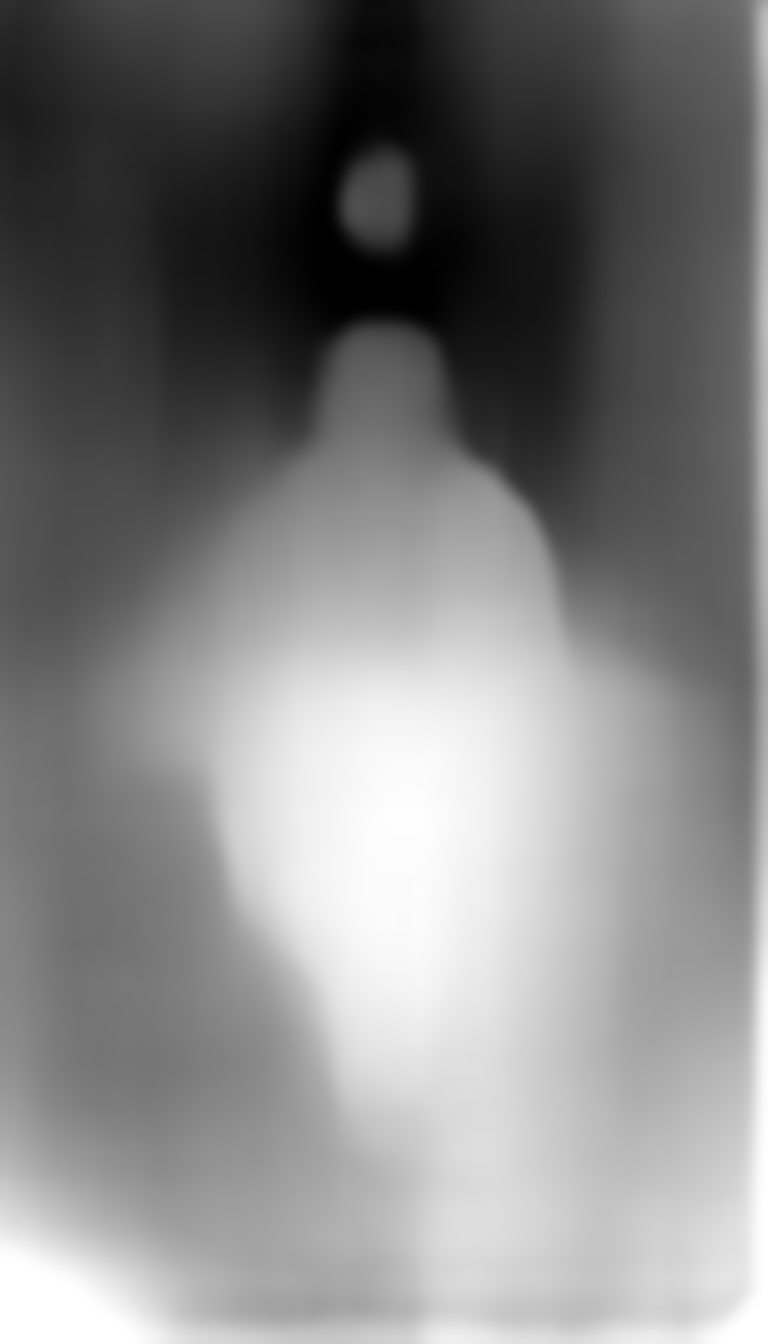
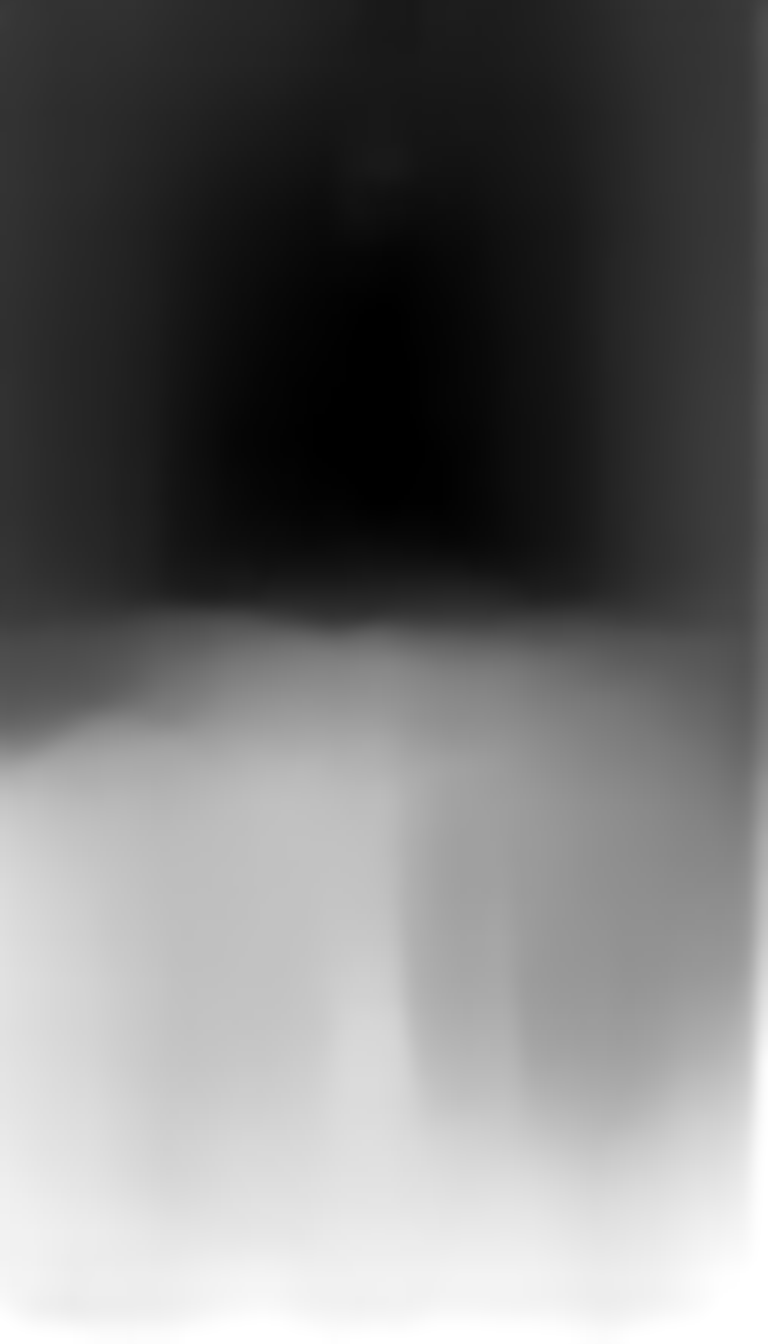
SolitudeLyrics: man as his own layer, calmer camera
The depth warp bent the man's body (his head tore off on shot 1).
Now each shot has a clean plate (Gemini, man removed) and a person
cutout (rembg u2net_human_seg). The shader warps only the plate and
draws the man as a flat card at his depth, which is also the focus
plane, so he stays sharp and steady while the world moves around him.

Camera moves, zoom-through cuts and handheld drift are toned down.

Claude-Session: https://claude.ai/code/session_01KgYHp3VtYHJ6xxZe5Txcze

diff --git a/examples/src/lyrics/SolitudeLyrics.tsx b/examples/src/lyrics/SolitudeLyrics.tsx
@@ -14,6 +14,8 @@ import {
   useVideoConfig,
 } from "remotion";
 import { Cam, DepthShot } from "./DepthShot";
+// depth of the man in each shot, written by scripts/gen-depth.py
+import layers from "../../public/lyrics/layers.json";
 
 // Cairo (OFL) bundled locally so renders work offline
 const cairo = "Cairo";
@@ -81,7 +83,6 @@ const lineEndS = (i: number) => (i + 1 < LYRICS.length ? lineStartS(i + 1) : CLI
 type Shot = {
   from: Cam;
   to: Cam;
-  focus: number;
   dof: number;
   fog: number;
   rain: number;
@@ -90,21 +91,21 @@ type Shot = {
 };
 const SHOTS: Shot[] = [
   // 1 walking away: slow push down the alley
-  { from: { x: -0.2, y: 0, zoom: 1, dolly: 0 }, to: { x: 0.3, y: -0.1, zoom: 1.06, dolly: 0.55 }, focus: 0.55, dof: 0.5, fog: 0.4, rain: 0.7, exposure: [0.9, 1] },
+  { from: { x: -0.15, y: 0, zoom: 1, dolly: 0 }, to: { x: 0.15, y: -0.05, zoom: 1.05, dolly: 0.35 }, dof: 0.5, fog: 0.4, rain: 0.7, exposure: [0.9, 1] },
   // 2 blocked road: lateral orbit past the rubble
-  { from: { x: -1, y: 0.1, zoom: 1.04, dolly: 0.2 }, to: { x: 1, y: -0.1, zoom: 1.08, dolly: 0.3 }, focus: 0.75, dof: 0.7, fog: 0.4, rain: 0.6, exposure: [1, 1] },
+  { from: { x: -0.5, y: 0.05, zoom: 1.04, dolly: 0.15 }, to: { x: 0.5, y: -0.05, zoom: 1.06, dolly: 0.25 }, dof: 0.7, fog: 0.4, rain: 0.6, exposure: [1, 1] },
   // 3 pitch dark: dolly-zoom (vertigo), light drains away
-  { from: { x: 0, y: 0, zoom: 1, dolly: 0.4 }, to: { x: 0, y: 0.1, zoom: 1.25, dolly: -0.3 }, focus: 0.5, dof: 0.4, fog: 0.55, rain: 0.4, exposure: [1, 0.6] },
+  { from: { x: 0, y: 0, zoom: 1, dolly: 0.3 }, to: { x: 0, y: 0.05, zoom: 1.15, dolly: -0.2 }, dof: 0.4, fog: 0.55, rain: 0.4, exposure: [1, 0.6] },
   // 4 the gate refuses: crane up the bars, impact on "رافضة"
-  { from: { x: 0.2, y: 1, zoom: 1.02, dolly: 0 }, to: { x: -0.2, y: -0.7, zoom: 1.1, dolly: 0.45 }, focus: 0.7, dof: 0.5, fog: 0.35, rain: 0.7, exposure: [0.95, 0.9], shake: 1 },
+  { from: { x: 0.1, y: 0.5, zoom: 1.02, dolly: 0 }, to: { x: -0.1, y: -0.4, zoom: 1.07, dolly: 0.3 }, dof: 0.5, fog: 0.35, rain: 0.7, exposure: [0.95, 0.9], shake: 1 },
   // 5 crying close-up: slow drift, heavy bokeh, heavy rain
-  { from: { x: 0.5, y: 0, zoom: 1, dolly: 0 }, to: { x: -0.3, y: 0.1, zoom: 1.12, dolly: 0.35 }, focus: 0.9, dof: 1.2, fog: 0.2, rain: 1, exposure: [0.95, 1] },
+  { from: { x: 0.3, y: 0, zoom: 1, dolly: 0 }, to: { x: -0.2, y: 0.05, zoom: 1.08, dolly: 0.25 }, dof: 1.2, fog: 0.2, rain: 1, exposure: [0.95, 1] },
   // 6 talking to himself: orbit around the steps
-  { from: { x: 0.9, y: -0.2, zoom: 1.05, dolly: 0.25 }, to: { x: -0.9, y: 0.1, zoom: 1.05, dolly: 0.35 }, focus: 0.65, dof: 0.6, fog: 0.35, rain: 0.8, exposure: [0.95, 0.95] },
+  { from: { x: 0.5, y: -0.1, zoom: 1.04, dolly: 0.2 }, to: { x: -0.5, y: 0.05, zoom: 1.04, dolly: 0.25 }, dof: 0.6, fog: 0.35, rain: 0.8, exposure: [0.95, 0.95] },
   // 7 his reflection: tilt down into the puddle
-  { from: { x: 0, y: -0.8, zoom: 1.02, dolly: 0.1 }, to: { x: 0.15, y: 0.8, zoom: 1.12, dolly: 0.5 }, focus: 0.8, dof: 0.8, fog: 0.3, rain: 0.7, exposure: [1, 0.95] },
+  { from: { x: 0, y: -0.5, zoom: 1.02, dolly: 0.1 }, to: { x: 0.1, y: 0.5, zoom: 1.08, dolly: 0.3 }, dof: 0.8, fog: 0.3, rain: 0.7, exposure: [1, 0.95] },
   // 8 alone in the street: crane pull-back, fade to night
-  { from: { x: 0, y: -0.4, zoom: 1.3, dolly: 0.6 }, to: { x: 0, y: 0.4, zoom: 1, dolly: -0.25 }, focus: 0.6, dof: 0.5, fog: 0.5, rain: 0.8, exposure: [1, 0.75] },
+  { from: { x: 0, y: -0.25, zoom: 1.18, dolly: 0.4 }, to: { x: 0, y: 0.25, zoom: 1, dolly: -0.15 }, dof: 0.5, fog: 0.5, rain: 0.8, exposure: [1, 0.75] },
 ];
 
 export const SOL_TOTAL_S = CLIP_END - CLIP_START;
@@ -136,33 +137,37 @@ const ShotLayer: React.FC<{ index: number; dur: number; cutF: number; last: bool
   const frame = useCurrentFrame();
   const { fps } = useVideoConfig();
   const shot = SHOTS[index];
+  // the man is the focus plane: he stays sharp and steady, the world moves around him
+  const fgDepth = layers[`shot-${pad(index)}` as keyof typeof layers].fg;
   const p = interpolate(frame, [0, dur], [0, 1], { ...clamp, easing: t.ease.inOut });
   const cam = mixCam(shot.from, shot.to, p);
 
   // zoom-through: punch into the scene at the end, settle out of a push at the start
   const outP = last ? 0 : interpolate(frame, [dur - cutF, dur], [0, 1], { ...clamp, easing: t.ease.in });
   const inP = index === 0 ? 1 : interpolate(frame, [0, cutF * 1.6], [0, 1], { ...clamp, easing: t.ease.out });
-  cam.dolly += outP * 0.5 - (1 - inP) * 0.3;
-  cam.zoom *= 1 + outP * 0.35 + (1 - inP) * 0.14;
+  cam.dolly += outP * 0.2 - (1 - inP) * 0.12;
+  cam.zoom *= 1 + outP * 0.12 + (1 - inP) * 0.06;
 
   // handheld drift + impact shake on the hero word
   const s = frame / fps;
   const shake = shot.shake && frame >= hitAt ? Math.exp(-(frame - hitAt) / 5) * shot.shake : 0;
-  cam.x += noise(s * 0.6, index) * 0.08 + Math.sin(frame * 2.1) * shake * 0.35;
-  cam.y += noise(s * 0.5, index + 9) * 0.06 + Math.cos(frame * 2.7) * shake * 0.3;
+  cam.x += noise(s * 0.6, index) * 0.04 + Math.sin(frame * 2.1) * shake * 0.2;
+  cam.y += noise(s * 0.5, index + 9) * 0.03 + Math.cos(frame * 2.7) * shake * 0.18;
 
   const exposure = interpolate(p, [0, 1], shot.exposure) * (1 + shake * 0.25);
   const opacity = index === 0 ? 1 : interpolate(frame, [0, cutF], [0, 1], { ...clamp, easing: t.ease.out });
-  const blur = (1 - inP) * 14 + outP * 10;
+  const blur = (1 - inP) * 6 + outP * 4;
 
   return (
     <AbsoluteFill style={{ opacity, filter: blur > 0.3 ? `blur(${blur}px)` : undefined }}>
       <DepthShot
-        src={staticFile(`lyrics/shot-${pad(index)}.png`)}
+        src={staticFile(`lyrics/shot-${pad(index)}-plate.png`)}
         depth={staticFile(`lyrics/shot-${pad(index)}-depth.png`)}
+        fg={staticFile(`lyrics/shot-${pad(index)}-fg.png`)}
+        fgDepth={fgDepth}
         cam={cam}
         time={s}
-        focus={shot.focus}
+        focus={fgDepth}
         dof={shot.dof}
         fog={shot.fog}
         rain={shot.rain}

diff --git a/examples/src/lyrics/DepthShot.tsx b/examples/src/lyrics/DepthShot.tsx
@@ -5,6 +5,10 @@ import { cancelRender, continueRender, delayRender } from "remotion";
 // pixel (parallax occlusion), so near objects slide and grow more than far
 // ones. Depth also drives fog, depth-of-field and rain that falls BETWEEN
 // the layers (hidden behind near objects).
+//
+// With fg (an RGBA cutout of the subject) the subject is not warped: src is the
+// clean plate, and the cutout is drawn as a flat card at fgDepth on top of it,
+// so the camera moves around him without bending his body.
 
 export type Cam = {
   x: number; // lateral camera offset (−1..1)
@@ -16,6 +20,8 @@ export type Cam = {
 export type DepthShotProps = {
   src: string;
   depth: string;
+  fg?: string; // RGBA cutout of the subject
+  fgDepth?: number; // depth of the subject's card (0 far … 1 near)
   cam: Cam;
   time: number; // seconds, for rain + flicker
   focus?: number; // depth that stays pinned (0 far … 1 near)
@@ -37,6 +43,8 @@ precision highp float;
 varying vec2 vUv;
 uniform sampler2D uImg;
 uniform sampler2D uDepth;
+uniform sampler2D uFg;
+uniform float uHasFg, uFgDepth;
 uniform vec2 uCover;   // uv scale for cover fit
 uniform vec2 uCam;
 uniform float uZoom, uDolly, uFocus, uFog, uDof, uRain, uTime, uExposure;
@@ -89,6 +97,13 @@ void main() {
     col = acc / 9.0;
   }
 
+  // subject card: sharp, unwarped, composited at its own depth
+  if (uHasFg > 0.5) {
+    vec4 fg = texture2D(uFg, project(vUv, uFgDepth));
+    col = mix(col, fg.rgb, fg.a);
+    hitD = mix(hitD, uFgDepth, fg.a);
+  }
+
   // atmospheric fog thickens with distance
   col = mix(col, uFogColor, (1.0 - hitD) * (1.0 - hitD) * uFog);
 
@@ -139,6 +154,8 @@ const texture = (gl: WebGLRenderingContext, unit: number, img: HTMLImageElement)
 export const DepthShot: React.FC<DepthShotProps> = ({
   src,
   depth,
+  fg,
+  fgDepth = 0.8,
   cam,
   time,
   focus = 0.5,
@@ -160,8 +177,8 @@ export const DepthShot: React.FC<DepthShotProps> = ({
       cancelRender(new Error("WebGL unavailable — render with --gl=angle or --gl=swangle"));
       return;
     }
-    Promise.all([loadImage(src), loadImage(depth)])
-      .then(([img, dep]) => {
+    Promise.all([loadImage(src), loadImage(depth), fg ? loadImage(fg) : null])
+      .then(([img, dep, fgImg]) => {
         const prog = gl.createProgram()!;
         gl.attachShader(prog, compile(gl, gl.VERTEX_SHADER, VERT));
         gl.attachShader(prog, compile(gl, gl.FRAGMENT_SHADER, FRAG));
@@ -175,12 +192,17 @@ export const DepthShot: React.FC<DepthShotProps> = ({
         gl.vertexAttribPointer(loc, 2, gl.FLOAT, false, 0, 0);
         texture(gl, 0, img);
         texture(gl, 1, dep);
+        // straight (not premultiplied) alpha for the cutout
+        gl.pixelStorei(gl.UNPACK_PREMULTIPLY_ALPHA_WEBGL, false);
+        texture(gl, 2, fgImg ?? dep);
         gl.uniform1i(gl.getUniformLocation(prog, "uImg"), 0);
         gl.uniform1i(gl.getUniformLocation(prog, "uDepth"), 1);
+        gl.uniform1i(gl.getUniformLocation(prog, "uFg"), 2);
+        gl.uniform1f(gl.getUniformLocation(prog, "uHasFg"), fgImg ? 1 : 0);
         setState({ gl, prog, imgSize: [img.naturalWidth, img.naturalHeight] });
       })
       .catch((err) => cancelRender(err));
-  }, [src, depth]);
+  }, [src, depth, fg]);
 
   useEffect(() => {
     if (!state) return;
@@ -197,6 +219,7 @@ export const DepthShot: React.FC<DepthShotProps> = ({
     gl.uniform1f(u("uZoom"), cam.zoom);
     gl.uniform1f(u("uDolly"), cam.dolly);
     gl.uniform1f(u("uFocus"), focus);
+    gl.uniform1f(u("uFgDepth"), fgDepth);
     gl.uniform1f(u("uFog"), fog);
     gl.uniform1f(u("uDof"), dof);
     gl.uniform1f(u("uRain"), rain);
@@ -208,7 +231,7 @@ export const DepthShot: React.FC<DepthShotProps> = ({
       released.current = true;
       continueRender(handle);
     }
-  }, [state, cam.x, cam.y, cam.zoom, cam.dolly, time, focus, fog, dof, rain, exposure, width, height, handle]);
+  }, [state, cam.x, cam.y, cam.zoom, cam.dolly, time, focus, fgDepth, fog, dof, rain, exposure, width, height, handle]);
 
   return <canvas ref={canvas} width={width} height={height} style={{ position: "absolute", inset: 0 }} />;
 };

diff --git a/examples/scripts/gen-depth.py b/examples/scripts/gen-depth.py
@@ -5,11 +5,19 @@ shot-XX-depth.png next to it: grayscale, white = near, black = far.
 Foreground edges are dilated slightly so near objects cover their own edges
 when the camera moves (avoids rubber-sheet halos).
 
+When shot-XX-plate.png exists (the same still with the man removed, from
+gen-lyrics-images.mjs --plates), the depth map is made from the plate instead,
+the man is cut out with a person matting model (rembg u2net_human_seg) into
+shot-XX-fg.png (RGBA), and his depth goes into layers.json. He then moves as a flat layer at that depth, so
+the camera never warps his body.
+
 Model (66 MB, MIT): https://github.com/isl-org/MiDaS/releases/download/v2_1/model-small.onnx
 saved to examples/models/midas-small.onnx (gitignored).
 
 Usage: python3 scripts/gen-depth.py [image ...]
 """
+import json
+import re
 import sys
 from pathlib import Path
 
@@ -24,29 +32,79 @@ MEAN = np.array([0.485, 0.456, 0.406], dtype=np.float32)
 STD = np.array([0.229, 0.224, 0.225], dtype=np.float32)
 
 
-def depth_for(path: Path, session: ort.InferenceSession) -> Path:
-    img = Image.open(path).convert("RGB")
+def inverse_depth(img: Image.Image, session: ort.InferenceSession) -> np.ndarray:
     x = np.asarray(img.resize((256, 256), Image.BICUBIC), dtype=np.float32) / 255.0
     x = ((x - MEAN) / STD).transpose(2, 0, 1)[None]
-    inv = session.run(None, {session.get_inputs()[0].name: x})[0][0]  # inverse depth, near = high
-    lo, hi = np.percentile(inv, 1), np.percentile(inv, 99)
-    d = np.clip((inv - lo) / (hi - lo + 1e-6), 0, 1)
-    out = Image.fromarray((d * 255).astype(np.uint8)).resize(img.size, Image.BICUBIC)
+    return session.run(None, {session.get_inputs()[0].name: x})[0][0]  # near = high
+
+
+def save_depth(d: np.ndarray, size: tuple[int, int], dest: Path) -> None:
+    out = Image.fromarray((d * 255).astype(np.uint8)).resize(size, Image.BICUBIC)
     out = out.filter(ImageFilter.MaxFilter(9)).filter(ImageFilter.GaussianBlur(6))
-    dest = path.with_name(path.stem + "-depth.png")
     out.save(dest)
-    return dest
+
+
+def cutout(img: Image.Image, seg) -> np.ndarray:
+    """Soft alpha (0..1) of the man (and his reflection) from a person matting model."""
+    from rembg import remove
+
+    m = np.asarray(remove(img, session=seg, only_mask=True, post_process_mask=False), dtype=np.float32) / 255.0
+    return np.clip((m - 0.08) / 0.84, 0, 1)
+
+
+def process(path: Path, session: ort.InferenceSession, seg, layers: dict) -> None:
+    img = Image.open(path).convert("RGB")
+    plate_path = path.with_name(path.stem + "-plate.png")
+    if not plate_path.exists():
+        inv = inverse_depth(img, session)
+        lo, hi = np.percentile(inv, 1), np.percentile(inv, 99)
+        save_depth(np.clip((inv - lo) / (hi - lo + 1e-6), 0, 1), img.size, path.with_name(path.stem + "-depth.png"))
+        print("depth:", path.stem)
+        return
+
+    plate = Image.open(plate_path).convert("RGB").resize(img.size, Image.BICUBIC)
+    inv_bg = inverse_depth(plate, session)
+    inv_all = inverse_depth(img, session)
+    lo, hi = np.percentile(inv_bg, 1), np.percentile(inv_bg, 99)
+    norm = lambda v: np.clip((v - lo) / (hi - lo + 1e-6), 0, 1)
+    save_depth(norm(inv_bg), img.size, path.with_name(path.stem + "-depth.png"))
+
+    alpha = cutout(img, seg)
+    rgba = np.dstack([np.asarray(img), (alpha * 255).astype(np.uint8)])
+    Image.fromarray(rgba, "RGBA").save(path.with_name(path.stem + "-fg.png"))
+
+    # his depth: where he stands, i.e. the plate's depth just under his lowest pixels
+    small = np.asarray(Image.fromarray((alpha * 255).astype(np.uint8)).resize((256, 256))) > 127
+    rows = np.flatnonzero(small.any(axis=1))
+    d_bg = norm(inv_bg)
+    if rows.size:
+        foot = rows[-1]
+        cols = np.flatnonzero(small[foot])
+        # cut off by the frame bottom: he is as near as the ground there
+        fg = float(np.median(d_bg[min(foot + 2, 255), cols]))
+    else:
+        fg = 0.5
+    layers[path.stem] = {"fg": round(min(max(fg, 0.0), 1.0), 3)}
+    print(f"depth + cutout: {path.stem} (man at depth {layers[path.stem]['fg']})")
 
 
 def main() -> None:
     if not MODEL.exists():
         sys.exit(f"missing {MODEL} — download model-small.onnx from the MiDaS v2_1 release")
     targets = [Path(p) for p in sys.argv[1:]] or sorted(
-        p for p in SHOTS.glob("shot-*.png") if not p.stem.endswith("-depth")
+        p for p in SHOTS.glob("shot-*.png") if re.fullmatch(r"shot-\d+", p.stem)
     )
     session = ort.InferenceSession(str(MODEL), providers=["CPUExecutionProvider"])
+    layers_path = SHOTS / "layers.json"
+    layers = json.loads(layers_path.read_text()) if layers_path.exists() else {}
+    seg = None
+    if any(p.with_name(p.stem + "-plate.png").exists() for p in targets):
+        from rembg import new_session  # pip install "rembg[cpu]"; model auto-downloads
+
+        seg = new_session("u2net_human_seg")
     for p in targets:
-        print("depth:", depth_for(p, session).name)
+        process(p, session, seg, layers)
+    layers_path.write_text(json.dumps(layers, indent=2, sort_keys=True) + "\n")
 
 
 if __name__ == "__main__":

diff --git a/examples/README.md b/examples/README.md
@@ -37,7 +37,9 @@ npx remotion still src/index.ts SelfFix out/check_300.png --frame 300 --overwrit
 
 Set to the opening verse of Cairokee's "Wahdy". Cinematic stills from Gemini image,
 turned into 3D camera moves with a depth map (parallax occlusion, depth fog,
-depth-of-field, rain between the layers in a WebGL shader). Every word rises on
+depth-of-field, rain between the layers in a WebGL shader). The man is cut out
+and drawn as his own layer over a clean plate, so the camera moves around him
+without warping his body. Every word rises on
 the beat it is sung: word times come from an ElevenLabs Scribe transcript and
 live in `LYRICS[].at` (song seconds). The stills, depth maps and song clip are
 committed, so `npm run render:lyrics` works as-is.
@@ -45,9 +47,10 @@ committed, so `npm run render:lyrics` works as-is.
 ```bash
 export GEMINI_API_KEY=...        # Vertex AI express key or Gemini API key
 npm run lyrics:images            # 8 stills -> public/lyrics/shot-XX.png (skips existing)
+npm run lyrics:images -- --plates  # same stills with the man removed -> shot-XX-plate.png
 curl -L -o models/midas-small.onnx \
   https://github.com/isl-org/MiDaS/releases/download/v2_1/model-small.onnx
-pip install onnxruntime pillow numpy
-npm run lyrics:depth             # shot-XX-depth.png next to each still
+pip install onnxruntime pillow numpy "rembg[cpu]"
+npm run lyrics:depth             # plate depth, man cutout (shot-XX-fg.png), layers.json
 npm run render:lyrics
 ```
